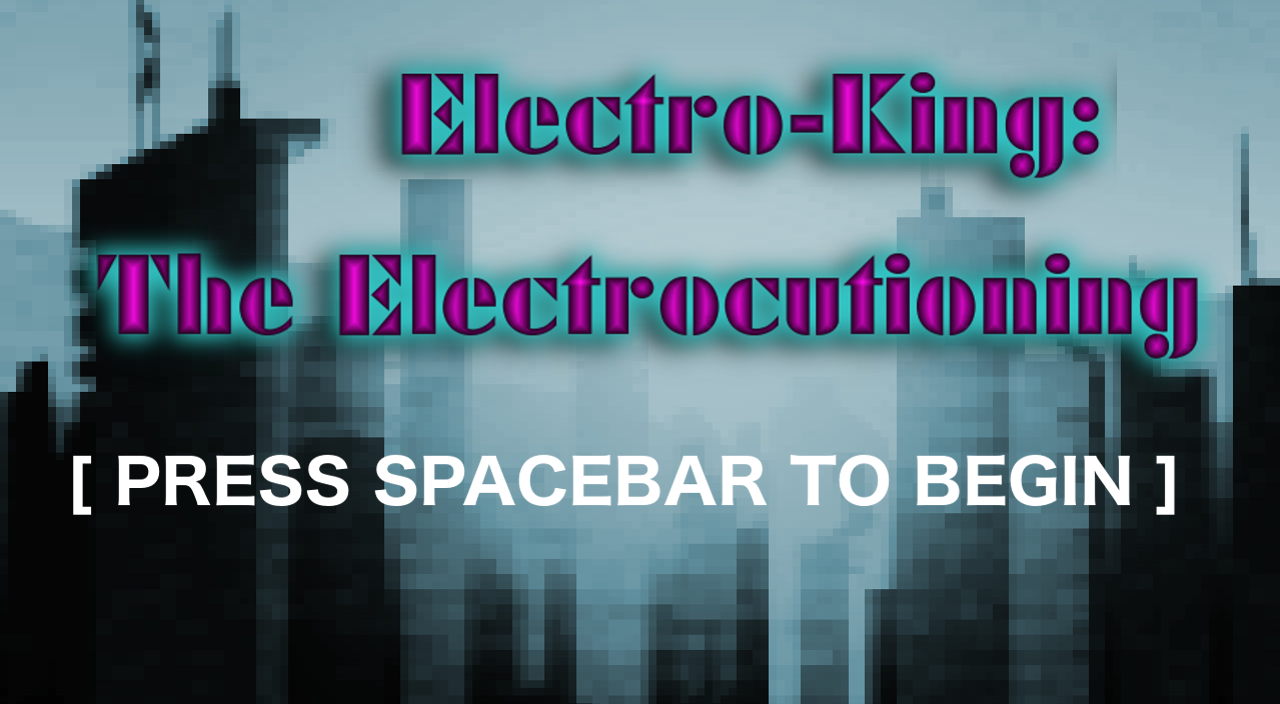
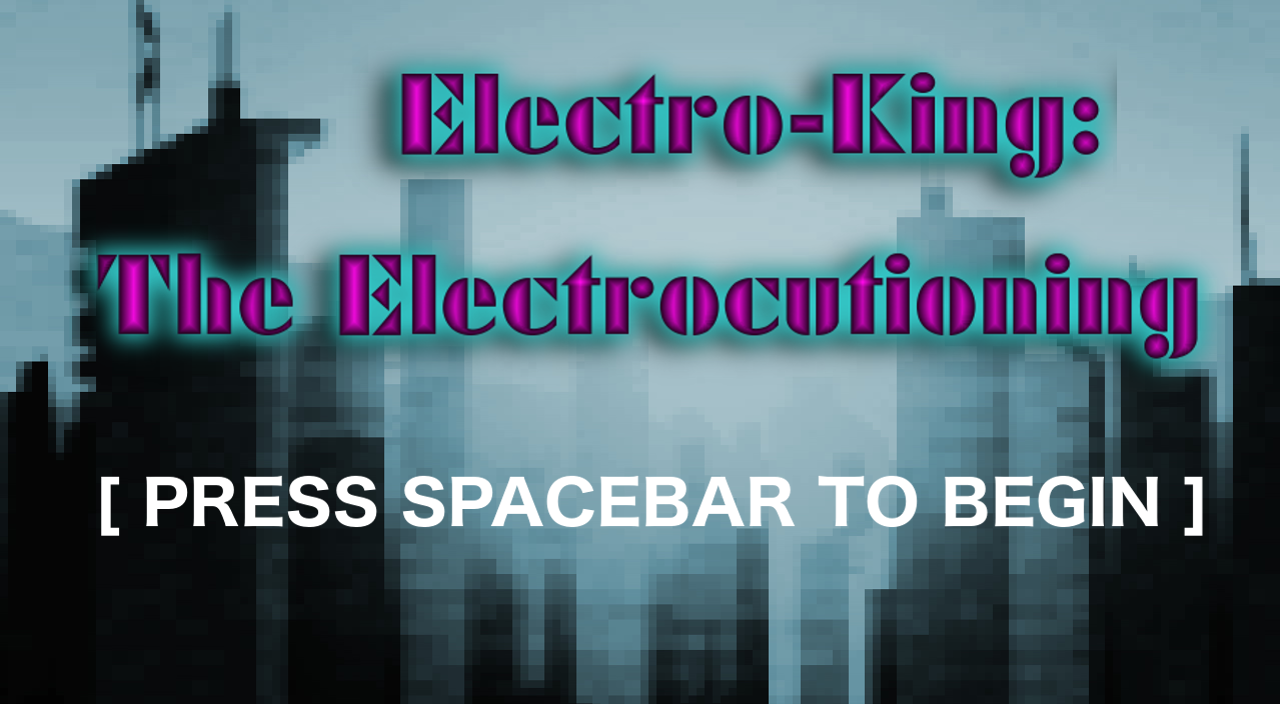
center game canvas and style page

Changed region(s): [[0.0312, 0.625, 0.9375, 0.7812]]

diff --git a/styles.css b/styles.css
@@ -1,0 +1,20 @@
+html, body {
+    height: 100%;
+    margin: 0;
+    padding: 0;
+    width: 100%;
+}
+
+body {
+    background-color: black;
+    position: relative;
+}
+
+canvas {
+    display: block;
+    left: 50%;
+    margin: -352px 0 0 -640px;
+    padding: 0;
+    position: absolute;
+    top: 50%;
+}

diff --git a/index.html b/index.html
@@ -3,6 +3,7 @@
 <head>
   <meta charset="UTF-8">
   <title>Last Electrician</title>
+  <link rel="stylesheet" type="text/css" href="styles.css">
   <script type="text/javascript" src="phaser.min.js"></script>
 </head>
 <body>
